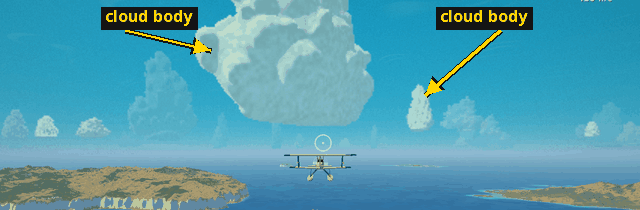
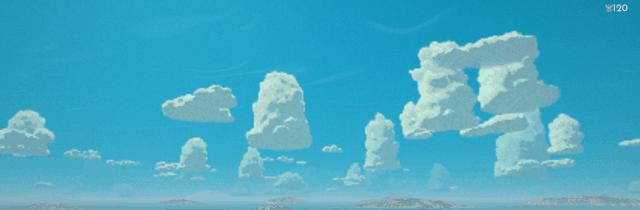
Cloud docs and glossary: forms, the cumulus field, tower growth, close relief, cloud shadows

diff --git a/docs/cloud-paint.md b/docs/cloud-paint.md
@@ -1,47 +1,157 @@
 # Painted clouds
 
-Cumulus and storm towers are three camera-facing painted sheets, on every tier.
-`src/cloud_paint.jo` paints eight deterministic cloud formations into RGB pigment /
-A coverage sheets. It consumes no image assets. Seeded rising plumes carry
-power-law child discs; shared parent shadow shapes, ragged light cuts and broad
-pigment washes establish the values. Tangential soft stamps vary brush width,
-opacity and bristle gaps. Fine noise models dry brush, pigment pooling and paper
-tooth. A common cool underside fades near the condensation level.
+Cumulus, towers and anvils are world-oriented solids ray-marched against a baked
+distance atlas, on every quality tier. Their light follows the real sun. Their
+silhouettes stay fixed as the camera moves around them. Decks, rain curtains and
+sea fog are analytic weather layers drawn by the same pass (`src/cloud_volume.jo`).
+Everything is procedural: no reference pixels, generated images or traced shapes
+enter the baker or the game.
 
-The baker paints at 512×512, then downsamples with premultiplied coverage into
-256×256 sheets. The 1536×1024 runtime atlas uses 6 MiB of decoded RGBA8 storage.
-No learned weights, traced silhouettes or reference pixels enter the baker or
-game. Reference images, including earlier rejected generated art, stay in scratch.
+## Forms (`src/cloud_density.jo`)
 
-Rebake with `SLOPPY_THREADS=1 sloppy --release tools/bake_clouds.jo` (also included
-in `tools/bake.jo`). `assets/clouds.png` is ignored and embedded at build time, so
-rebake before building after merging. The old density atlas is incompatible.
-`CLOUD_ATLAS_OUT=/absolute/path.png` redirects a standalone bake for measurement.
+28 forms of eight kinds, each built from round lobes in metres, with the form's
+x half-width as 1:
 
-The far sheet contains the whole silhouette; two nearer sheets carry overlapping
-plumes. Their depths and lateral offsets provide modest parallax. The foreground sheets
-are pigment-selected fragments of the procedural painting with feathered boundaries. Coverage and
-ray/plane intersections are shared with vapor trails. Scene depth clips every
-sheet. Interior fog bridges entry through the sheets; it is an approximation,
-not a simulation of volumetric density. Clouds face the eye and therefore do not
-have a fixed three-dimensional silhouette. Overhead views lighten the paintings.
+- **humilis:** flat-based caps, wider than tall, with a few large lumps on top;
+- **fractus:** torn pieces with broken edges and a ragged base;
+- **cluster:** a clump or short street of cells of power-law sizes on one base;
+- **mediocris:** a heaped cell, sometimes with a smaller neighbour;
+- **congestus:** a broad base cell and two to four rising turrets. A turret is
+  a column of similar lobes, so a taller tower stacks more lobes rather than
+  bigger ones. Side turrets lean on the main column; standing apart, their heads
+  would arch over a window. Twin towers stand shoulder to shoulder at different
+  heights.
+- **anvil:** a massive body under a flat plate that spreads downwind at the
+  tropopause, thick over the body and thinning to a ragged rim (a plate
+  primitive smoothly joined to the lobes);
+- **mass:** a large complex of cells.
 
-Clouds use a third-resolution color target on all tiers (quarter for overlapping
-rain/deck layers) with full-resolution screen-pixel paper grain,
-scene-depth reconstruction and edge repair. The four-band luminance ramp,
-softened with an 80% within-band wash, is fused into the cloud draw. A native-resolution pilot exceeded the laptop budget and was
-rejected. Low-sun shafts retain the existing composite path. Dense weather
-disables the extra screen grain for cost; brush texture remains in the paintings.
-Weather layers use four analytic samples; both color and trails share that count.
-Dense weather writes the depth-repair decision into the scene target’s existing
-spare depth renderbuffer. Hardware depth rejection then skips resolved pixels
-for every layer. It uses the exact existing reconstruction threshold and adds
-no texture allocation; the actual scene depth is detached and sampled read-only.
-Ordinary fair clouds use the direct nearest-guide bound.
-World identities, cloud lifecycle, wind and saved weather records are unchanged.
-Midday sky uses a teal pigment locally; shared terrain lighting is unchanged.
+`cloud_heap` fills an elliptical footprint layer by layer. Its profile narrows
+with height: a low dome for humilis, a column with a rounded head for a turret.
+Exposed lobes carry the cauliflower: smaller heads, then smaller heads again,
+never below one voxel. A shared cut gives every form the same flat condensation
+base, at `p.y = -CLOUD_BASE` in the box. Fractus bases are torn rather than cut.
 
-For a reproducible comparison, build `tools/cloud_pilot.jo` and run:
+Forms come in four size classes. Each class's voxel grid has the aspect of its
+box (flat 64x26x48, heaped 64x44x56, tower 48x64x48, anvil/mass 64x56x56), so
+voxels are cubes in metres. Instances scale **uniformly**. Nothing is stretched;
+only the depth varies by ±10%. Four forms of a class share each RGBA8 texel, one
+per channel. A texel stores the encoded distance (0.5 at the surface, larger
+inside, in units of the half-width).
+
+The 2048x734 atlas takes 6.0 MB decoded. Below the slices, each form's top-down
+footprint for cloud shadows holds four height slabs, the densest value of each
+slab per column.
+
+Normals are the distance's gradient from four tetrahedral taps about three
+voxels apart. That wide reach gives the lobes' broad shoulders rather than every
+crevice.
+
+Rebake with `env -u DISPLAY -u WAYLAND_DISPLAY SLOPPY_THREADS=1 sloppy --release
+tools/bake_clouds.jo`; it takes about 6 s and is included in `tools/bake.jo`.
+`assets/clouds.png` is ignored and embedded at build time, so rebake after
+merging. `CLOUD_ATLAS_OUT=/absolute/path.png` redirects a standalone bake.
+
+## Field (`src/cloud_field.jo`)
+
+There are three size octaves of persistent world cells: 1.6 km to 16 km, 6.5 km
+to 70 km and 26 km to 150 km. Identities depend on seed and cell only. Occupancy
+follows a coarse clumping cascade and wind-aligned streets, so clouds gather in
+clusters and rows with clear lanes between, as a cumulus field seen from above.
+
+A cell places a small group:
+
+- **small octave:** two to five small clouds;
+- **middle octave:** a main cloud with satellites;
+- **large octave:** a big mass, or a street of heaped cells and clumps along a
+  heading.
+
+Sizes follow a power law within each octave. A placed cloud picks one of the
+seeds of its kind, a heading, and a mirror (half are mirrored). Every cloud of
+an air mass sits on its condensation level (`air.ceiling`).
+
+Life: a cloud swells (0.72 to 1.06 of its size) and wears away (erosion of its
+distance) at its own proportions.
+
+Towers: a heaped middle-octave cell carries a tower form, and some small cells
+a small one. `cloud_tall` measures how strongly the air builds towers: the
+towers weather, or afternoon heating over land, weighted by the cell's tone.
+In the growth band the tower rises at its own proportions out of the heaped
+cloud, scaled up from 0.4 while the heaped form wears away inside it.
+`world_clouds` emits both for that band. An eroding tower would turn into a
+skeleton of holes. Below the band only the heaped form shows, above it only
+the tower.
+
+## Drawing (`src/cloud_volume.jo`)
+
+Each instance is a screen-space quad over its projected support box. The ray
+marches distance steps in metres, refined only near the surface.
+
+- **Close relief.** Within 60 m of a body's surface, two octaves of billowed
+  value noise (95 m and 38 m, in the cloud's own metres) break up the
+  silhouette into rounded bulges with creases. They fade with the size of a
+  low-resolution pixel and are kept off the flat base. They enter the light
+  only at 30%: full relief shading reads as crumpled paper.
+- **Antialiased edges.** A ray that misses is still partly covered if it passed
+  within three hit tolerances of the surface. Upsampled from the third-resolution
+  target, the silhouette is soft rather than stepped.
+- **Painted light.** A terminator ramp on a mix of the local and the mass
+  normal. A broad sunward self-shadow, never on sun-facing faces, where it
+  reads as a crater. A rim light, and a darker flat base.
+
+The third-resolution colour target, depth reconstruction, edge repair, decks,
+rain and fog are as before. The visibility veil for blended effects
+(`src/cloud_transparency.jo`) marches the same forms.
+
+## Shadows (`src/cloud_shadow.jo`, `src/cloud_shadow_map.jo`)
+
+Each frame the clouds near the camera are drawn into a coverage map in
+sun-projected coordinates: a point P maps to `P.xz - k*P.y`, with `k =
+sun.xz/max(sun.y, 0.12)`. That is where the sunlight through P meets sea level.
+
+- **Map size by tier:** 768 px over 28 km on low, 1024 over 36 km on medium,
+  1536 over 48 km on high (about 35 m texels). It is centred ahead of the view
+  and snapped to texels.
+- **Drawing it.** One instanced quad per cloud covers its projected box. Four
+  footprint taps (one per height slab) project the cloud along the sun.
+- **Edges.** The penumbra widens with the slab's height above the ground.
+- **Combining.** Overlapping clouds combine as coverage: `a + b(1 - a)`.
+
+Receivers sample it at their own projected point (`cloud_shadow_at`), so
+shadows fall offset by the sun's angle and land at the right place on hills and
+roofs. The receivers are:
+
+- **ground and grass** (`ground_surface`): the shadow removes 85% of the direct
+  sun, leaving the cool fill and some of the ground's colour. On the seabed it
+  removes 55%.
+- **sea, rivers and lakes** (`sea_material`): deep water darkens towards navy,
+  clear shallows towards a deeper teal. One factor keeps the marks' contrast;
+  sheen and glints go.
+- **towns, buildings, boats and aircraft** (`obj_base_light`): 85% of the
+  direct sun.
+
+The fade:
+- Things well above the cloud bases are not shaded: 400 to 1800 m over the
+  condensation level near the camera. That covers an aircraft over the field
+  and high peaks. The map holds coverage only, no heights.
+- Shadows fade out with a low sun, and at the map's edge.
+
+Cost: one texture and one vec4 per receiver shader. All shaders stay within
+WebGL2's guaranteed limits (`tools/check_web_shaders.cjs`).
+
+## Developer controls
+
+These are not game UI.
+
+- `AEGEAN_CLOUD_SHADOWS=0` turns shadows off.
+- `AEGEAN_CLOUD_TIMELAPSE=k` runs the clouds' drift and lives k times faster.
+- `AEGEAN_CLOUD_FRAMES=dir` saves every second frame from frame 60. With `ffmpeg
+  -framerate 30 -i dir/%05d.png -crf 18` it makes clips of moving shadows.
+- `tools/cloud_pilot.jo` takes `CLOUD_STAMP=n` and `CLOUD_WIDTH=m` to show one
+  form at its own proportions. `CLOUD_VIEW`, `CLOUD_EYE`, `CLOUD_TARGET`,
+  `CLOUD_HEADING` and `AEGEAN_HOUR` place the camera and sun.
+
+For a reproducible comparison against a local reference, build the pilot and run:
 
 ```
 python3 tools/cloud_tune.py --binary /absolute/path/to/cloud-pilot \
@@ -49,19 +159,5 @@ python3 tools/cloud_tune.py --binary /absolute/path/to/cloud-pilot \
   --film-box 0,500,520,1020 --output /absolute/scratch/comparison
 ```
 
-Pass `--painted-reference /absolute/scratch/approved-crop.png` for a three-way
-film / approved reference / procedural comparison. This optional file is read by
-the comparison script only; it is never used by the baker or renderer.
-
-The tool requires Pillow. It launches one silent headless render, crops/resizes
-without grading, and writes a comparison PNG, HTML and settings JSON. `--kind`,
-`--heading`, `--hour`, `--distance`, `--quality`, `--light`, `--shade`, and `--grain` control the
-actual shader, without recompilation. The last three map to developer environment
-variables `CLOUD_PAINT_LIGHT`, `CLOUD_PAINT_SHADE`, `CLOUD_PAINT_GRAIN`. Structural
-changes to the masks require rebaking and rebuilding. These controls are not game
-UI. Reference material stays outside the repository and game build.
-
-A crop comparison is a diagnostic, not evidence of indistinguishability. Check
-whole formations, different sun angles, motion, overhead/inside views and depth
-occlusion as well as shuffled label-hidden crops. Record guesses before opening
-the key; self-review is not an independent reviewer.
+Reference material stays outside the repository and the build. A crop
+comparison is a diagnostic, not evidence of indistinguishability.

diff --git a/docs/glossary/README.md b/docs/glossary/README.md
@@ -19,7 +19,7 @@ on that unmerged branch so far.
 - **Water effects:** [Splash bodies](#splash-bodies) · [Spray curtains](#spray-curtains) · [Splash streaks](#splash-streaks) · [Skim spray](#skim-spray) · [Wake](#wake)
 - **Rivers and canals:** [River ribbon](#river-ribbon) · [Confluence](#confluence) · [Opaque river prepass](#opaque-river-prepass) · [Bank plants](#bank-plants) · [Riparian ground](#riparian-ground) · [Chart rivers](#chart-rivers)
 - **Aircraft:** [Prop disc](#prop-disc) · [Prop arcs](#prop-arcs) · [Arc precession](#arc-precession) · [Idle blades](#idle-blades) · [Vapour wisps](#vapour-wisps) · [Buffet](#buffet) · [Floats, hull and step](#floats-hull-and-step) · [Planing](#planing) · [Speed scale](#speed-scale) · [Chaotic stalls](#chaotic-stalls) · [Flight model v2](#flight-model-v2) · [Sky Barons port](#sky-barons-port) · [Departure resistance](#departure-resistance) · [Altimeter hands](#altimeter-hands) · [Navigation lights](#navigation-lights)
-- **Sky:** [Cloud body](#cloud-body) · [Cloud bank and tower](#cloud-bank-and-tower) · [Overcast deck](#overcast-deck) · [Deck climb](#deck-climb) · [Anvil](#anvil) · [Weather fixtures](#weather-fixtures) · [Moon](#moon) · [Planet lights](#planet-lights) · [Painted terminator](#painted-terminator) · [Shadow masses](#shadow-masses)
+- **Sky:** [Cloud body](#cloud-body) · [Cloud forms](#cloud-forms) · [Cumulus field](#cumulus-field) · [Tower growth](#tower-growth) · [Cloud relief](#cloud-relief) · [Cloud shadows](#cloud-shadows) · [Overcast deck](#overcast-deck) · [Deck climb](#deck-climb) · [Anvil](#anvil) · [Weather fixtures](#weather-fixtures) · [Moon](#moon) · [Planet lights](#planet-lights) · [Painted terminator](#painted-terminator) · [Shadow masses](#shadow-masses)
 - **Ground and vegetation:** [Grass blades](#grass-blades) · [Prop wash on grass](#prop-wash-on-grass) · [Grass frontier](#grass-frontier) · [Ground tint](#ground-tint) · [Wind sheen](#wind-sheen) · [Terrain stripes (historical bug)](#terrain-stripes-historical-bug) · [Coast refinement](#coast-refinement) · [Vegetation kinds and groves](#vegetation-kinds-and-groves)
 - **Towns and people:** [Quay (code) and dock (player)](#quay-code-and-dock-player) · [Legacy towns](#legacy-towns) · [Close kit](#close-kit) · [Frontage](#frontage) · [Plinth](#plinth) · [Hill house](#hill-house) · [Regional character](#regional-character) · [Farmstead](#farmstead) · [Paving](#paving) · [Townsfolk](#townsfolk) · [Camera wall check](#camera-wall-check) · [Path desk](#path-desk) · [Ambient crowd](#ambient-crowd) · [Action cards](#action-cards) · [Readable type](#readable-type) · [Wading](#wading)
 - **Living world:** [Far people](#far-people) · [Notices](#notices) · [Provenance](#provenance) · [Phoenix (money)](#phoenix-money) · [Standing](#standing) · [Contracts](#contracts) · [Battle cards](#battle-cards) · [Voices](#voices) · [Openers and tiered topics](#openers-and-tiered-topics) · [Rotating far checks](#rotating-far-checks) · [Spread minute](#spread-minute)
@@ -509,20 +509,59 @@ On the rivers branch until it lands.
 ### Cloud body
 
 - **Definition:** one cloud's volume: a heaped cumulus with crisp cream tops, slate-blue shaded
-  sides and a flat, darker base.
-- **Code:** population in `src/cloud_field.jo`, drawing in `src/cloud_volume.jo`, painting in
-  `src/cloud_paint.jo`; the paint atlas is baked by `tools/bake_clouds.jo` into the ignored
-  `assets/clouds.png`.
+  sides and a flat, darker base on its air mass's condensation level.
+- **Code:** forms in `src/cloud_density.jo`, placement in `src/cloud_field.jo`, drawing and
+  painted light in `src/cloud_volume.jo`; the atlas is baked by `tools/bake_clouds.jo` into the
+  ignored `assets/clouds.png`. See `docs/cloud-paint.md`.
 
-![Cloud bodies over the archipelago from 600 m](img/cloud-bodies.png)
+![Cloud bodies in towers weather from 300 m](img/cloud-bodies.png)
 
-### Cloud bank and tower
+### Cloud forms
 
-- **Definition:** a **bank** is a connected, low, broad mass of cloud (550 to 1550 m tall); a
-  **tower** is a tall building cumulus (up to 6500 m), as in the afternoon towers over the warm
-  islands.
-- **Code:** `src/cloud_field.jo:63 cloud_bank`; the bank-or-tower choice is in the same file.
-  Mesh banks and the opaque cloud field described in the clouds-7 reports are on `t3/clouds-7`.
+- **Definition:** the 28 procedural shapes a cloud body takes, built at their true proportions
+  and only ever scaled uniformly (never stretched): **humilis** (flat caps, wider than tall),
+  **fractus** (torn pieces), **cluster** (a clump or short street of cells on one base),
+  **mediocris** (heaped), **congestus** (towers of stacked lobes), **twin** towers, **anvil**
+  (a massive body under a flat plate spreading downwind) and **mass** (a large complex).
+- **Code:** `cloud_make_form`, `cloud_heap`, `cloud_stamp_kind` in `src/cloud_density.jo`;
+  `CLOUD_STAMP=n` in `tools/cloud_pilot.jo` shows one.
+- **Rules:** a taller tower gets more lobes, not taller ones. Side turrets lean on the main
+  column (apart, their heads arch over a window).
+
+![Humilis, mediocris, congestus and anvil forms (tools/cloud_pilot.jo)](img/cloud-forms.png)
+
+### Cumulus field
+
+- **Aliases:** the field, cloud streets.
+- **Definition:** the population of fair-weather clouds: clumps of small clouds, a main cloud
+  with satellites, and streets along a heading, gathered by a coarse clumping cascade and
+  wind-aligned rows with clear lanes between; power-law sizes in three octaves.
+- **Code:** `cloud_octave_group`, `world_clouds` in `src/cloud_field.jo`.
+
+### Tower growth
+
+- **Definition:** how a heaped cell becomes a towering cumulus while the air builds towers
+  (towers weather, or afternoon heating over land): the tower rises at its own proportions out
+  of the heaped cloud, which wears away inside it.
+- **Code:** `cloud_tall`, `cloud_forms_shown`, `cloud_evolve` in `src/cloud_field.jo`.
+
+### Cloud relief
+
+- **Definition:** the lumpy, broken edge of a cloud seen close: billowed noise in the cloud's
+  own metres that breaks the silhouette into rounded bulges, faded out with distance and kept
+  off the flat base; mostly not in the light, so faces keep their painted masses.
+- **Code:** `cloud_relief` in `src/cloud_volume.jo`.
+
+### Cloud shadows
+
+- **Definition:** the dark, soft-edged patches the clouds cast on land, sea, rivers, lakes and
+  towns, offset from each cloud by the sun's angle and moving with clouds and sun; deep water
+  goes navy, clear shallows a deeper teal, land keeps some colour.
+- **Code:** the map in `src/cloud_shadow.jo` (sun-projected coverage from each form's footprint
+  slabs), the sample `cloud_shadow_at` in `src/cloud_shadow_map.jo`; `AEGEAN_CLOUD_SHADOWS=0`
+  turns them off.
+
+![Towers and their shadows from 3000 m](img/cloud-shadows.png)
 
 ### Overcast deck
 
@@ -545,8 +584,10 @@ On the rivers branch until it lands.
 
 ### Anvil
 
-- **Definition:** the dark, flat-crowned top of a thunderstorm's column, at the storm centre.
-- **Code:** the storm branch of `src/cloud_field.jo` ("A dark anvil and rising column").
+- **Definition:** the dark, flat-crowned top of a thunderstorm's column, at the storm centre: a
+  plate flattened at the tropopause and spreading downwind over a massive body.
+- **Code:** the storm branch of `src/cloud_field.jo`; the form (`CLOUD_ANVIL`, its plate in
+  `cloud_form_distance`) in `src/cloud_density.jo`.
 - **Capture:** `AEGEAN_CAPTURE=weather-storm AEGEAN_WEATHER=storm
   AEGEAN_WEATHER_CENTER='0 -26000'`.
 
@@ -586,8 +627,8 @@ On the rivers branch until it lands.
 - **Definition:** large, coherent areas of cool shadow on clouds and foliage, taken from the big
   parent forms rather than from each small lobe, so shading reads as a few big shapes instead of
   "polka-dot shadows".
-- **Code:** `src/cloud_paint.jo` ("children inherit the parent's shadow mass"); the newer
-  version is on `t3/clouds-7`.
+- **Code:** `cloud_paint` in `src/cloud_volume.jo` (the mass normal mixed with a broad
+  distance gradient; no sunward self-shadow on lit faces).
 - **Rules:** cool shadow belongs to foliage and cloud masses, not a blue dye over every wall
   (`docs/ART.md`).
 
